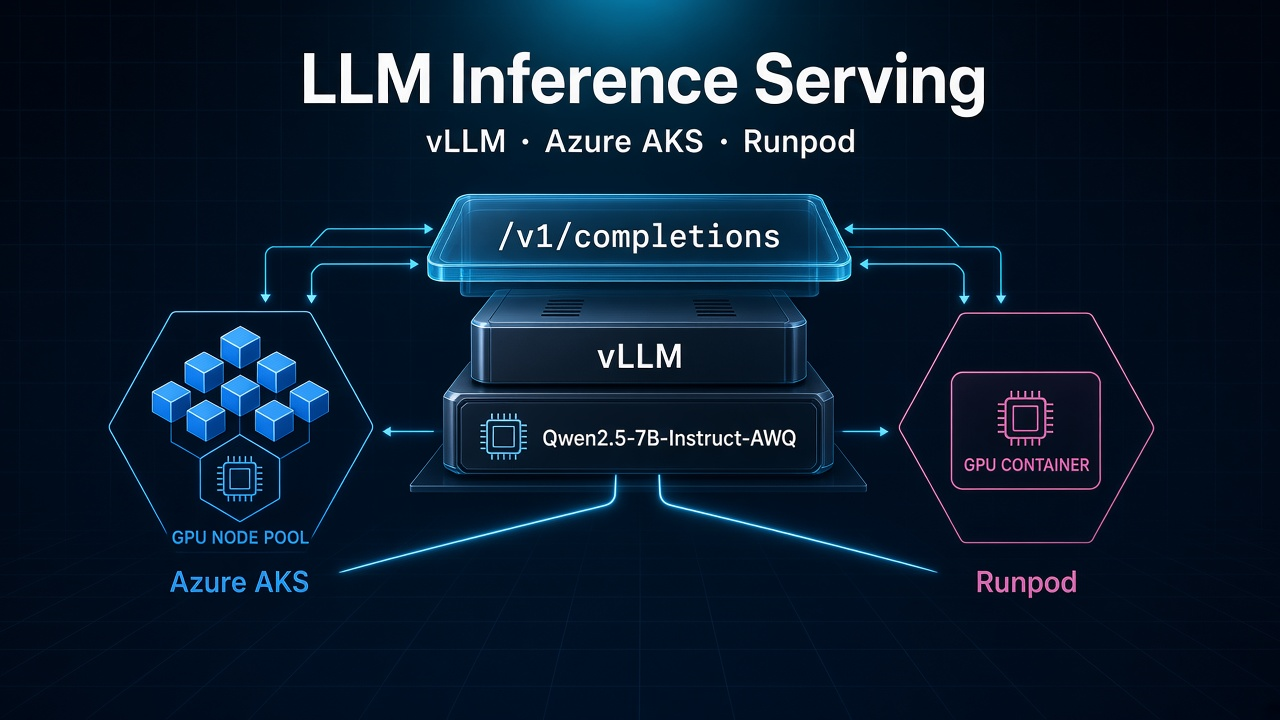
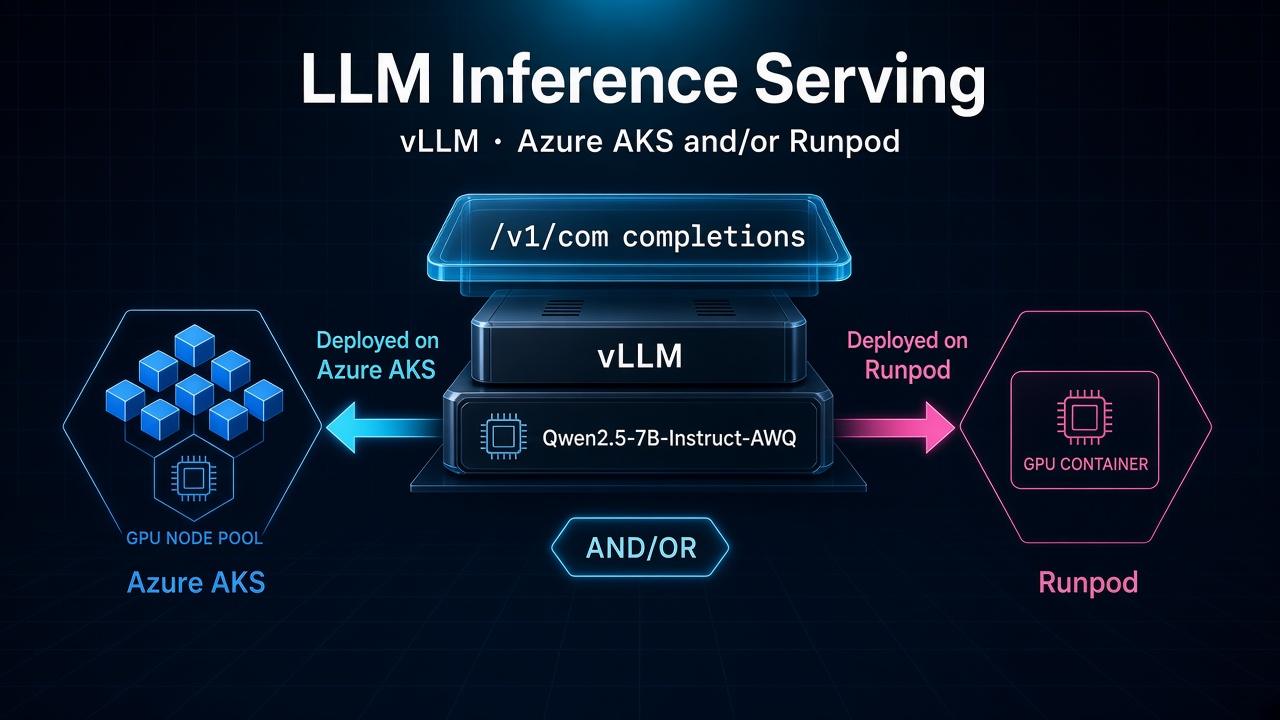
State Azure AKS and/or Runpod as first-class vLLM deploy targets.
Hero arrows now read Deployed on Azure AKS and Deployed on Runpod; README lead matches.

diff --git a/README.md b/README.md
@@ -1,6 +1,8 @@
 # LLM-Inference-Serving-Azure-AKS
 
-Provisioning a GPU on Azure AKS with Terraform, install the NVIDIA GPU Operator, and server Qwen2.5-7B-instruct-AWQ through vLLM's OpenAI-compatible API - a production shaped inference endpoint, reachable via curl /v1/completions
+Deploy **vLLM** serving for **Qwen2.5-7B-Instruct-AWQ** on **Azure AKS**, **Runpod**, or both — same OpenAI-compatible door: `POST /v1/completions`.
+
+Azure AKS: Terraform, NVIDIA GPU Operator, GPU node pool. Runpod: a pinned `vllm/vllm-openai` container on a GPU host (this lab: community RTX 3090) when AKS quota is unavailable. Clients hit `/v1/completions` on whichever path is live.
 
 ![LLM Inference Serving](docs/images/hero-llm-inference-serving.png)
 
